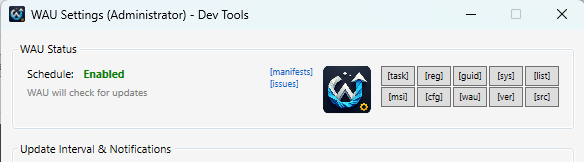
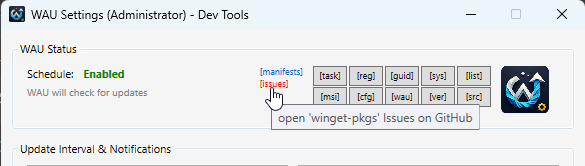
Update README and scripts for version 1.7.7, add upgrade instructions, and enhance update handling

diff --git a/Sources/WAU Settings GUI/config/settings-window.xaml b/Sources/WAU Settings GUI/config/settings-window.xaml
@@ -42,21 +42,6 @@
                     </TextBlock>
                 </StackPanel>
                 
-                <!-- WAU Settings GUI PNG (visible by default) -->
-                <StackPanel x:Name="GUIPngPanel" Orientation="Vertical" VerticalAlignment="Top" Margin="0,0,10,0" Visibility="Visible">
-                    <Button x:Name="GUIPng" 
-                            Width="48" Height="48" 
-                            Margin="0,0,0,0"
-                            ToolTip="WAU Settings GUI - Click or F12 for developer tools"
-                            Cursor="Hand"
-                            Background="Transparent"
-                            BorderThickness="0"
-                            Padding="0">
-                        <Image Source="$Script:WAU_GUI_PNG" 
-                               Width="48" Height="48"/>
-                    </Button>
-                </StackPanel>
-
                 <!-- Dev buttons in a Grid with 2 rows -->
                 <Grid VerticalAlignment="Top" Height="42">
                     <Grid.RowDefinitions>
@@ -93,6 +78,21 @@
                     </StackPanel>
                 </Grid>
                 
+                <!-- WAU Settings GUI PNG (visible by default) -->
+                <StackPanel x:Name="GUIPngPanel" Orientation="Vertical" VerticalAlignment="Top" Margin="0,0,10,0" Visibility="Visible">
+                    <Button x:Name="GUIPng" 
+                            Width="48" Height="48" 
+                            Margin="10,0,0,0"
+                            ToolTip="WAU Settings GUI - Click or F12 for developer tools"
+                            Cursor="Hand"
+                            Background="Transparent"
+                            BorderThickness="0"
+                            Padding="0">
+                        <Image Source="$Script:WAU_GUI_PNG" 
+                               Width="48" Height="48"/>
+                    </Button>
+                </StackPanel>
+
             </StackPanel>            
         </Grid>
     </GroupBox>

diff --git a/Sources/WAU Settings GUI/README.md b/Sources/WAU Settings GUI/README.md
@@ -1,4 +1,4 @@
-# Installation
+## Installation
 - Extract `Sources\WAU Settings GUI`
 - Standalone Installer/Portable (i.e. no need to install **WAU Settings GUI**)
 - Detects if running from USB drive, etc.
@@ -12,3 +12,8 @@
 - The **WAU Settings (Administrator)** shortcut has now been created under **Start Menu\Programs\Winget-AutoUpdate** folder (along with the other **WAU** shortcuts) or on your own **Desktop**.
 - In `config_user.psm1` you can set the `AUTOUPDATE_CHECK` variable to `$true/$false` to enable/disable version autoupdate check for **WAU Settings GUI** once every `AUTOUPDATE_DAYS` and other user-specific settings (i.e. colors).
 - Move `config_user.psm1` to the `modules` folder to enable it.
+
+## Upgrade
+- Download the latest released version
+- Extract the files to the same directory as before (overwrite existing files)
+- It looks for updates automatically every week (can be managed via `config_user.psm1`)

diff --git a/README.md b/README.md
@@ -58,6 +58,11 @@ NB: Must be run as Administrator (shortcut creation sets the flag)
 - In `config_user.psm1` you can set the `AUTOUPDATE_CHECK` variable to `$true/$false` to enable/disable version autoupdate check for **WAU Settings GUI** once every `AUTOUPDATE_DAYS` and other user-specific settings (i.e. colors).
 - Move `config_user.psm1` to the `modules` folder to enable it.
 
+### Upgrade
+- Download the latest released version
+- Extract the files to the same directory as before (overwrite existing files)
+- It looks for updates automatically every week (can be managed via `config_user.psm1`)
+
 ### Screenshots
 Managed by Registry (local):  
 ![image](Sources/assets/Screenshot_Local.png)
